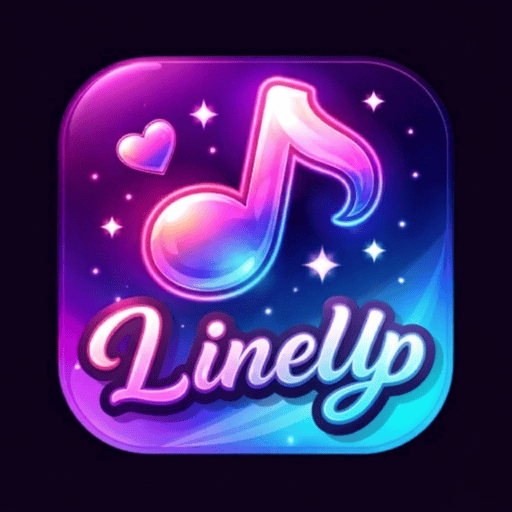
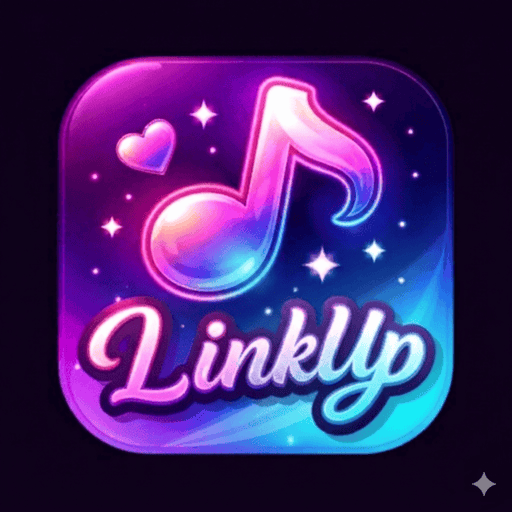
new commit

diff --git a/lib/app.dart b/lib/app.dart
@@ -1,19 +1,51 @@
 import 'package:flutter/material.dart';
-import 'package:get/route_manager.dart';
+import 'package:flutter/services.dart';
+import 'package:get/get.dart';
 import 'package:vibely/screens/splash_screen.dart';
 
 class MyApp extends StatelessWidget {
   const MyApp({super.key});
+  static const _backgroundGradient = LinearGradient(
+    begin: Alignment.topLeft,
+    end: Alignment.bottomRight,
+    colors: [
+      Color(0xFF0D47A1), 
+      Color(0xFF1976D2),
+      Color(0xFF64B5F6),
+    ],
+    stops: [0.0, 0.55, 1.0],
+  );
+
+  static const _systemUiStyle = SystemUiOverlayStyle(
+    statusBarColor: Colors.blue,
+    statusBarIconBrightness: Brightness.light, 
+    systemNavigationBarColor: Color(0xFF64B5F6),
+    systemNavigationBarIconBrightness: Brightness.light,
+  );
+
   @override
   Widget build(BuildContext context) {
     return GetMaterialApp(
-      title: 'Vibely',
-      theme: ThemeData.dark().copyWith(
-        scaffoldBackgroundColor: Colors.black
-      ),
+      title: 'LinkUp',
       debugShowCheckedModeBanner: false,
+      theme: ThemeData.dark().copyWith(
+        scaffoldBackgroundColor: Colors.blueAccent,
+        appBarTheme: const AppBarTheme(
+          backgroundColor: Colors.blueAccent,
+          elevation: 0,
+          systemOverlayStyle: _systemUiStyle,
+        ),
+      ),
+      builder: (context, child) {
+        return AnnotatedRegion<SystemUiOverlayStyle>(
+          value: _systemUiStyle,
+          child: DecoratedBox(
+            decoration: const BoxDecoration(gradient: _backgroundGradient),
+            child: child ?? const SizedBox.shrink(),
+          ),
+        );
+      },
       home: const SplashScreen(),
     );
   }
 }
-

diff --git a/lib/screens/for_you_video_screen.dart b/lib/screens/for_you_video_screen.dart
@@ -148,7 +148,7 @@ class ForYouVideoScreen extends StatelessWidget {
                             SharePlus.instance.share(
                               ShareParams(
                                 text:
-                                    "Watch this video on Vibely 🔥\n${video.videoUrl}",
+                                    "Watch this video online🔥\n${video.videoUrl}",
                               ),
                             );
                           }

diff --git a/lib/screens/splash_screen.dart b/lib/screens/splash_screen.dart
@@ -87,7 +87,7 @@ class _SplashScreenState extends State<SplashScreen>
                 child: ScaleTransition(
                   scale: _logoScale,
                   child: Image.network(
-                    'https://i.postimg.cc/Kz8dtTvf/Line-Up.png',
+                    'https://i.postimg.cc/vZp9Ypqv/linkup.png',
                     width: 200,
                     height: 200,
                   ),

diff --git a/README.md b/README.md
@@ -1,8 +1,8 @@
 <p align="center">
-  <img src="assets/icon.png" width="120" alt="LineUp Logo">
+  <img src="assets/icon.png" width="120" alt="LinkUp Logo">
 </p>
 <p align="center">
-  <strong>LineUp</strong> – A Flutter-based online video sharing social networking app.
+  <strong>LinkUp</strong> – A Flutter-based online video sharing social networking app.
 </p>
 
 ## 🚀 Features
@@ -97,8 +97,8 @@ SUPABASE_ANON_KEY=your_supabase_anon_key
 ### 1⃣ Clone the repository
 
 ```bash
-git clone https://github.com/San2021331091/LineUp.git
-cd LineUp
+git clone https://github.com/San2021331091/LinkUp.git
+cd LinkUp
 ```
 
 ### 2⃣ Install dependencies
